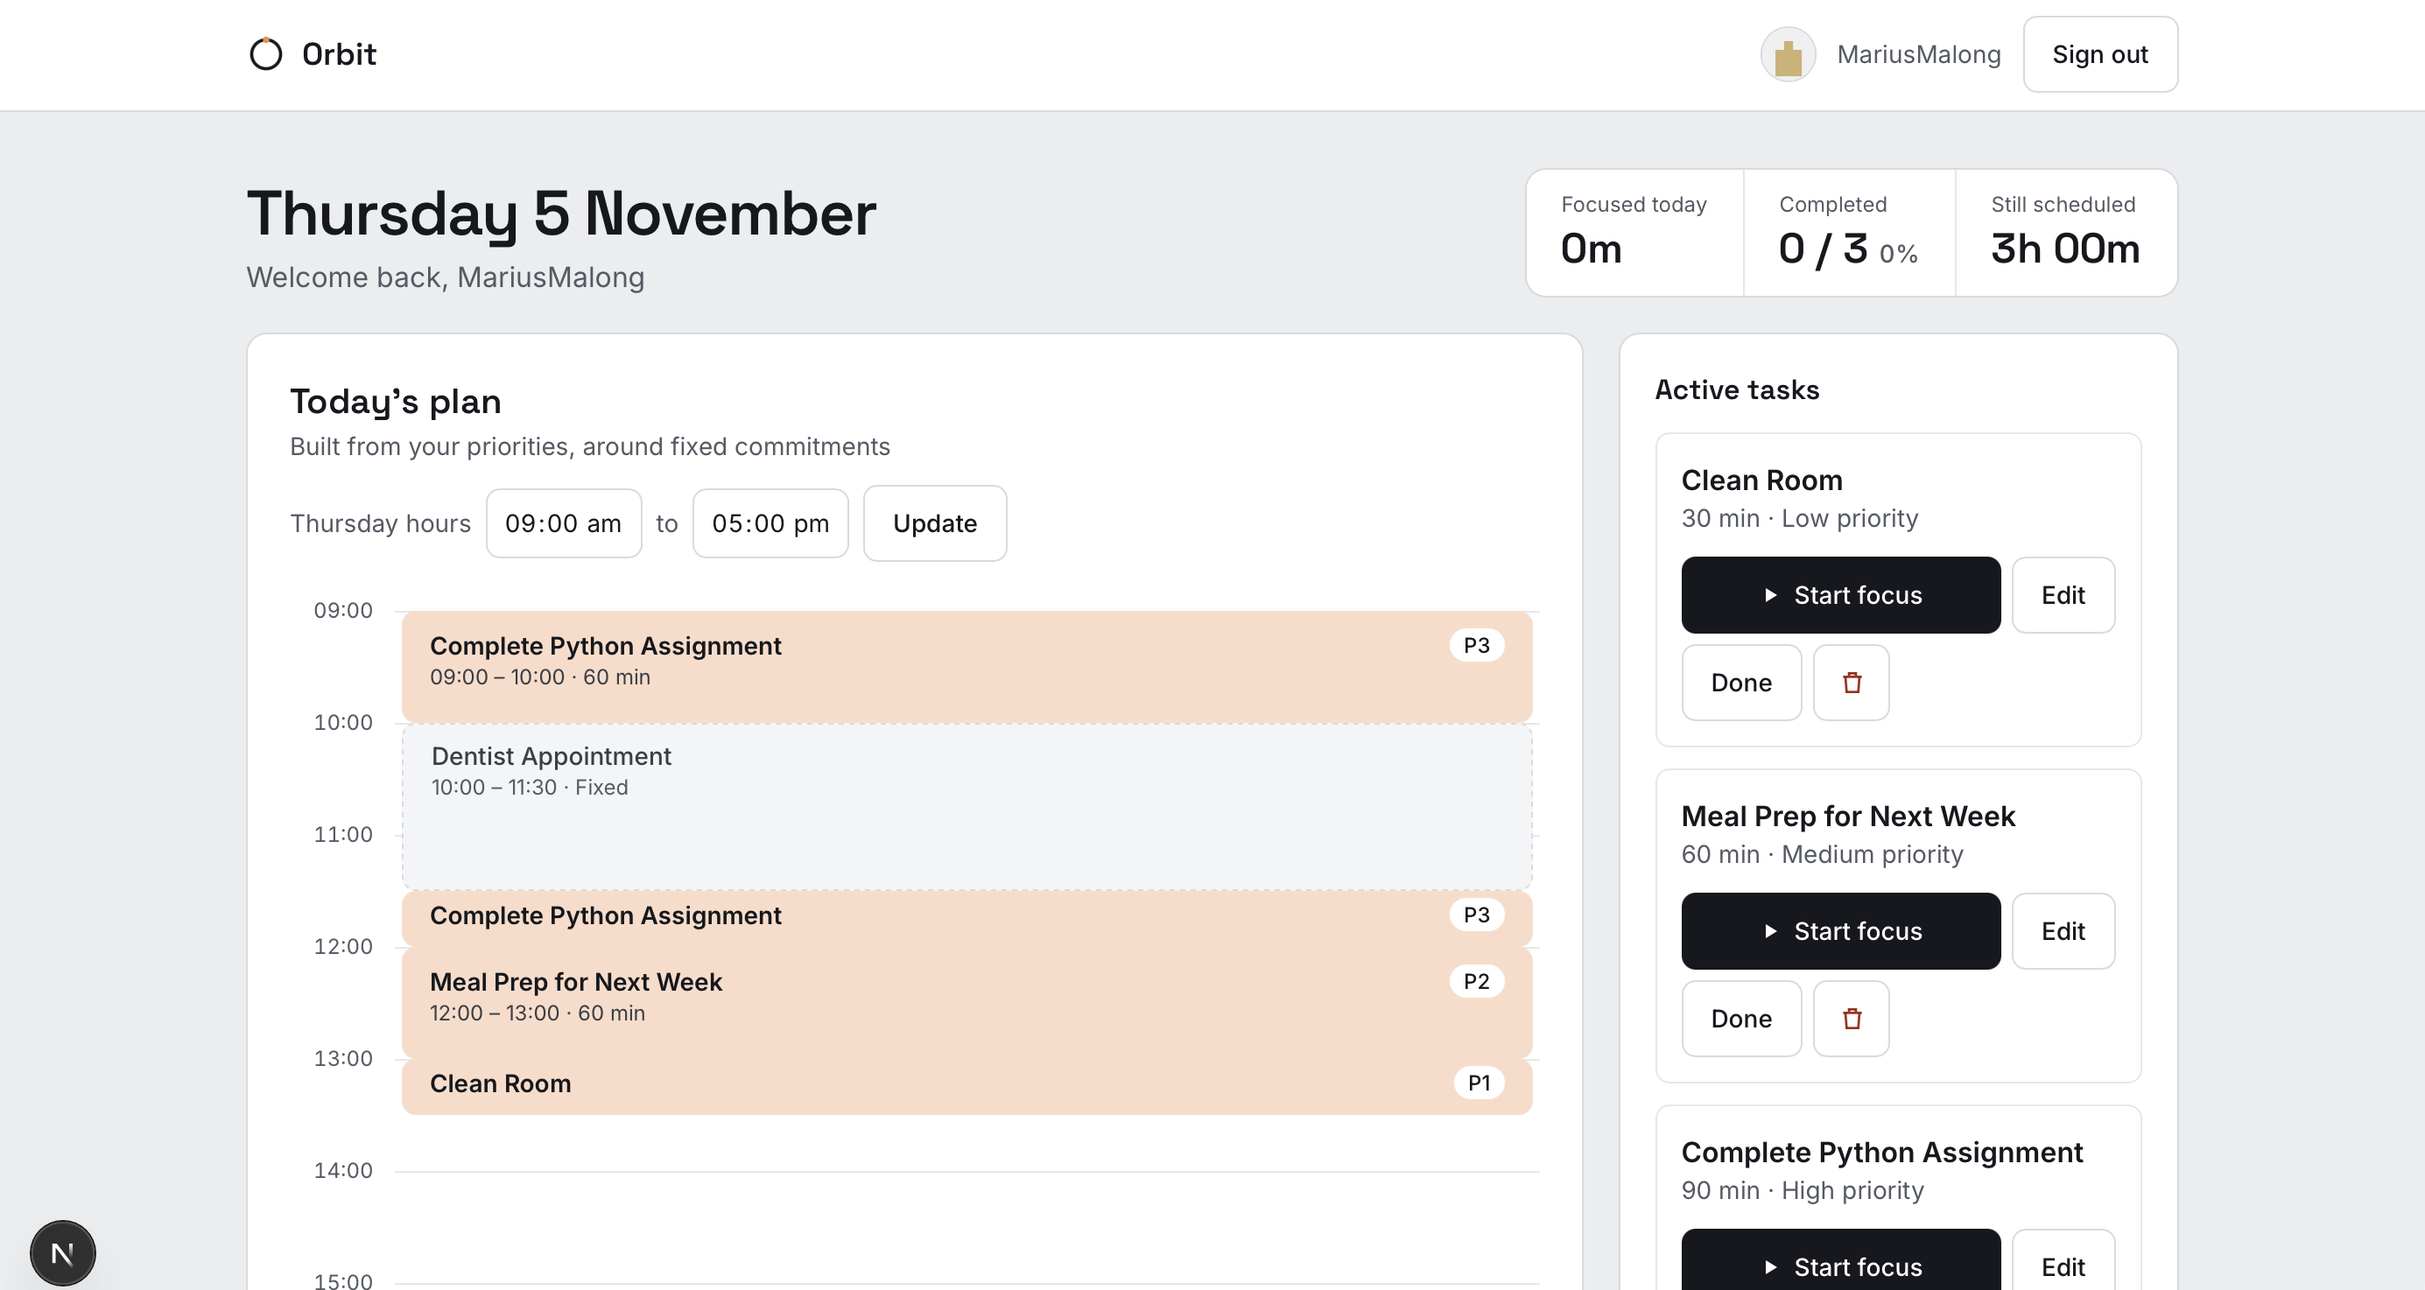
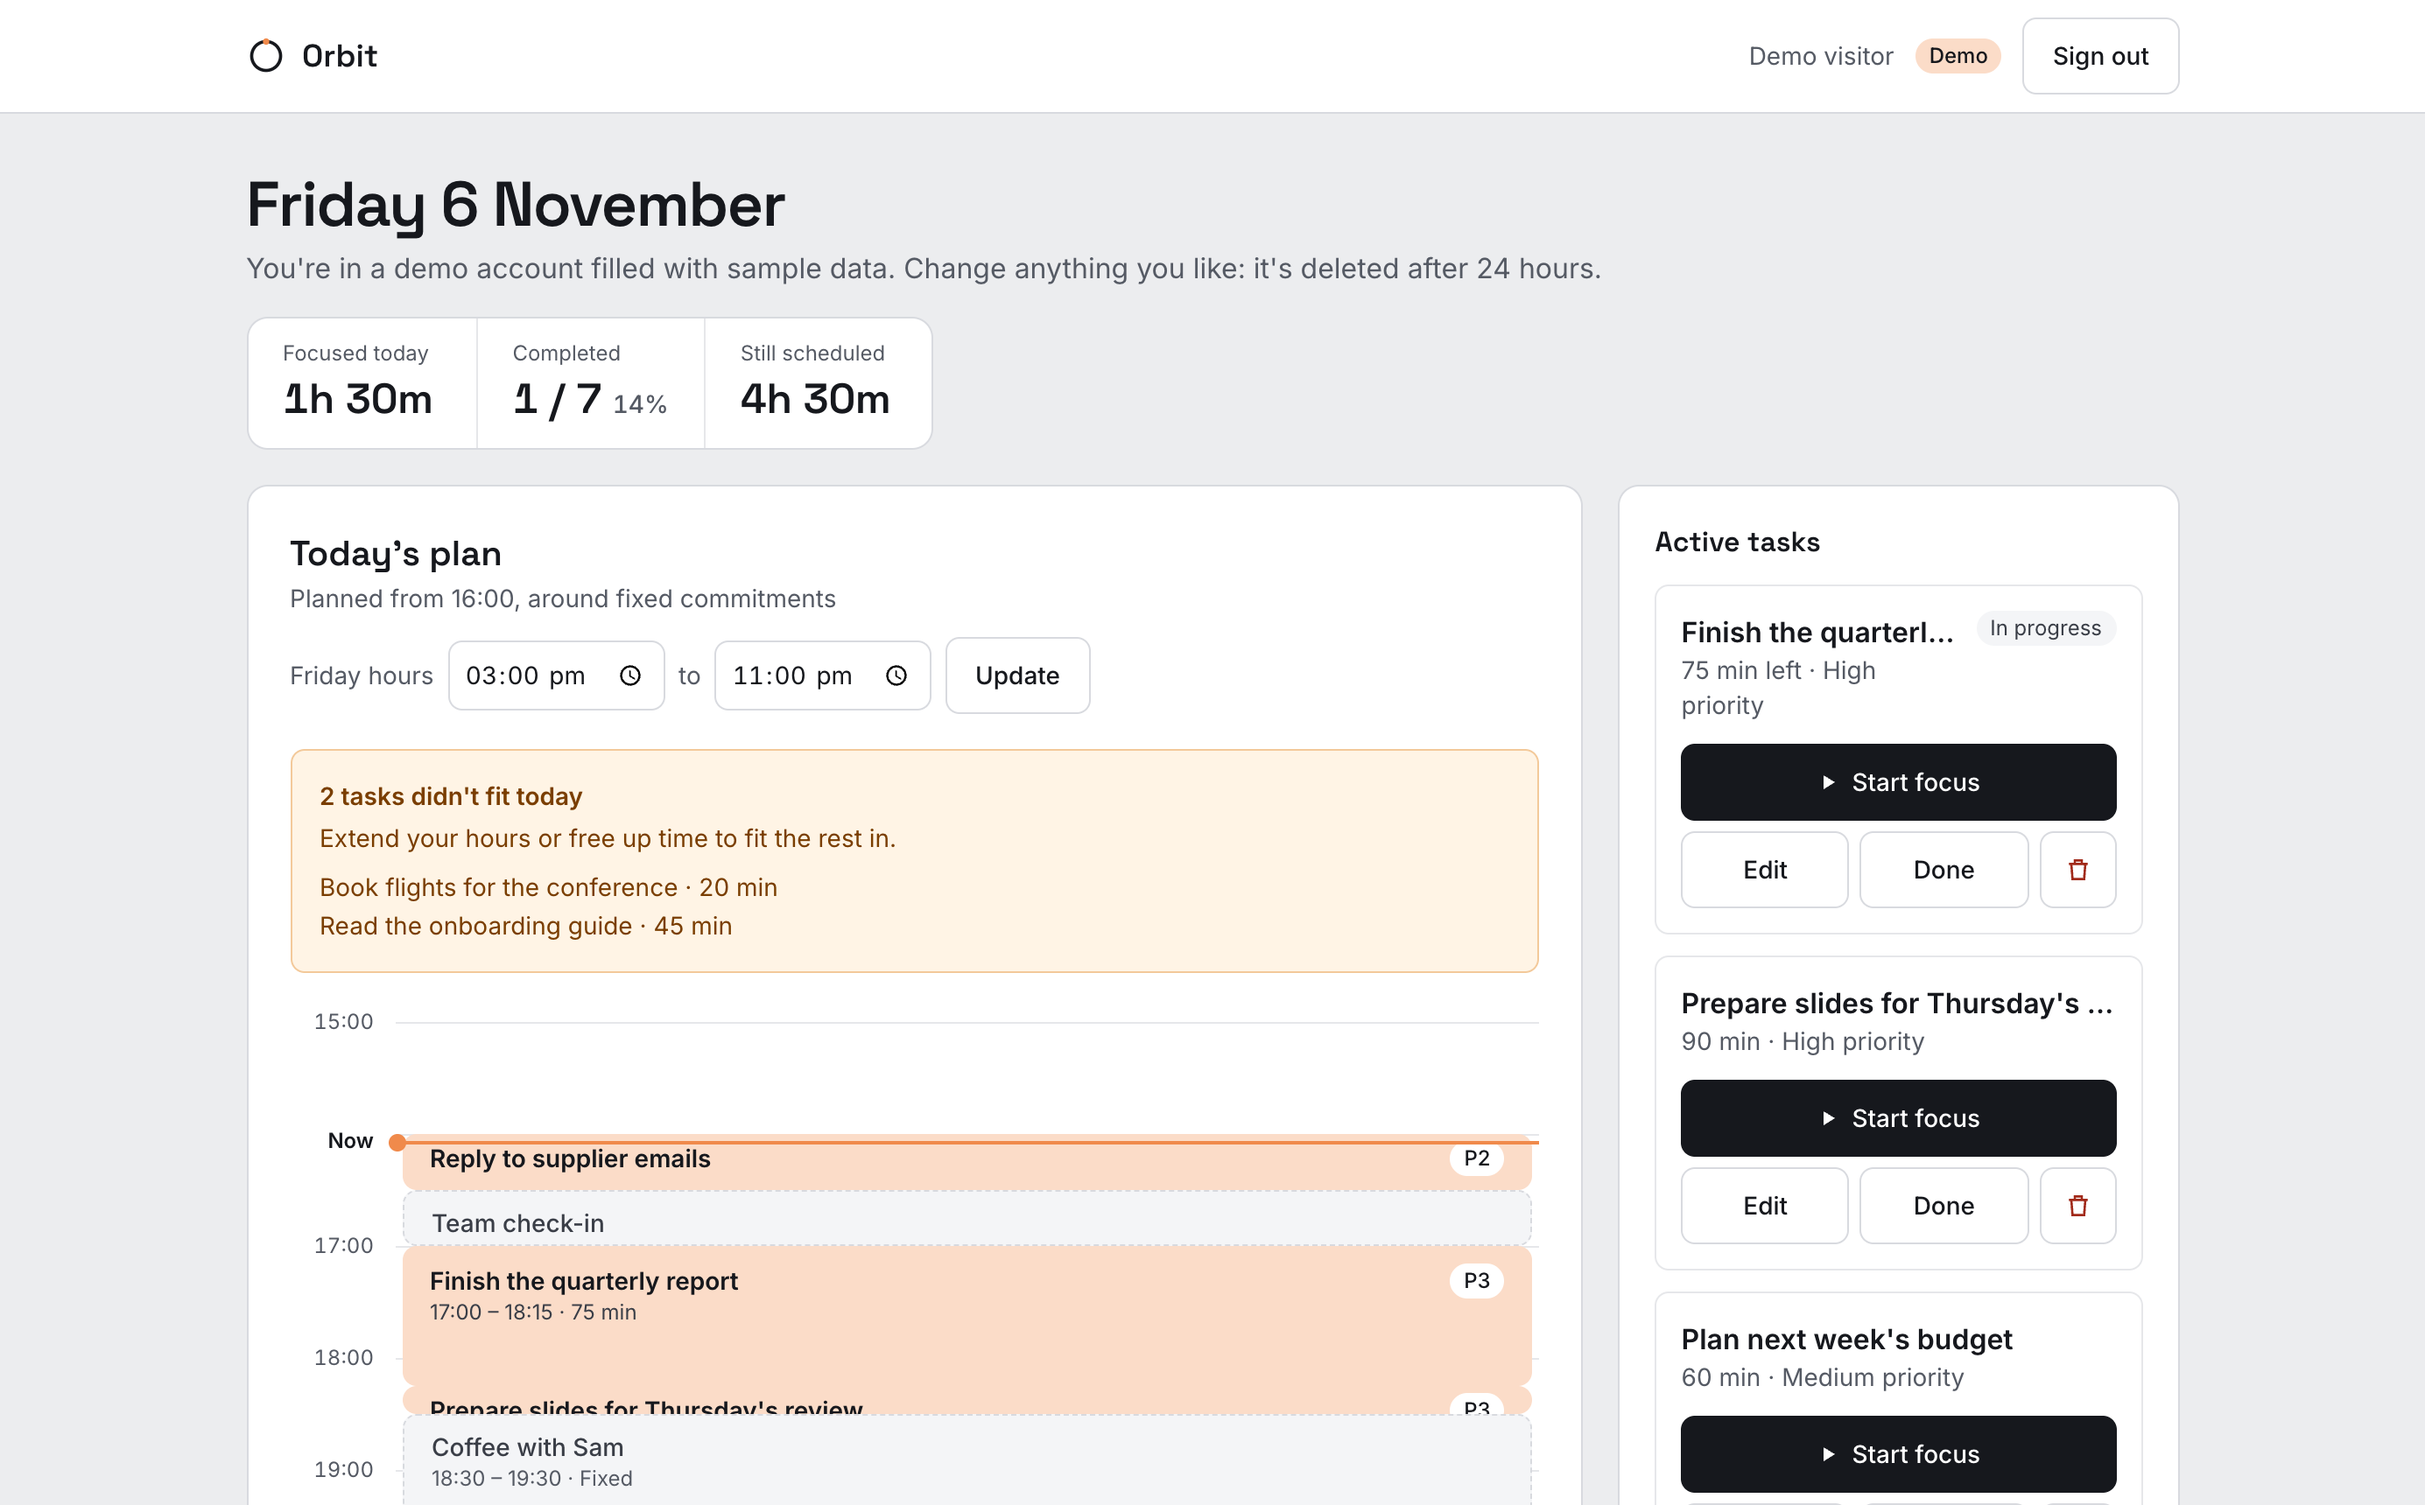
docs: replace the README screenshot with the current dashboard

diff --git a/README.md b/README.md
@@ -8,7 +8,7 @@ Orbit is a daily planner that builds your schedule for you. You give it tasks (w
 
 Click **Try the demo** to get your own temporary account, filled with a day of sample tasks and commitments. There's no sign-up, and the account is deleted after 24 hours. Try starting a focus timer, moving a commitment or changing your hours, and watch the plan redraw. You can also sign in with GitHub (Orbit only reads your public profile and email address).
 
-![Orbit dashboard showing today's plan on an hour grid](docs/images/dashboard.png)
+![Orbit's dashboard in a demo account: the rest of today planned from the current time, a task due today moved ahead of higher-priority work, and two tasks that didn't fit](docs/images/dashboard.png)
 
 I'm building it to learn how to design a scheduling algorithm properly and to practise full-stack patterns in a real multi-user app. It's a work in progress.
 
